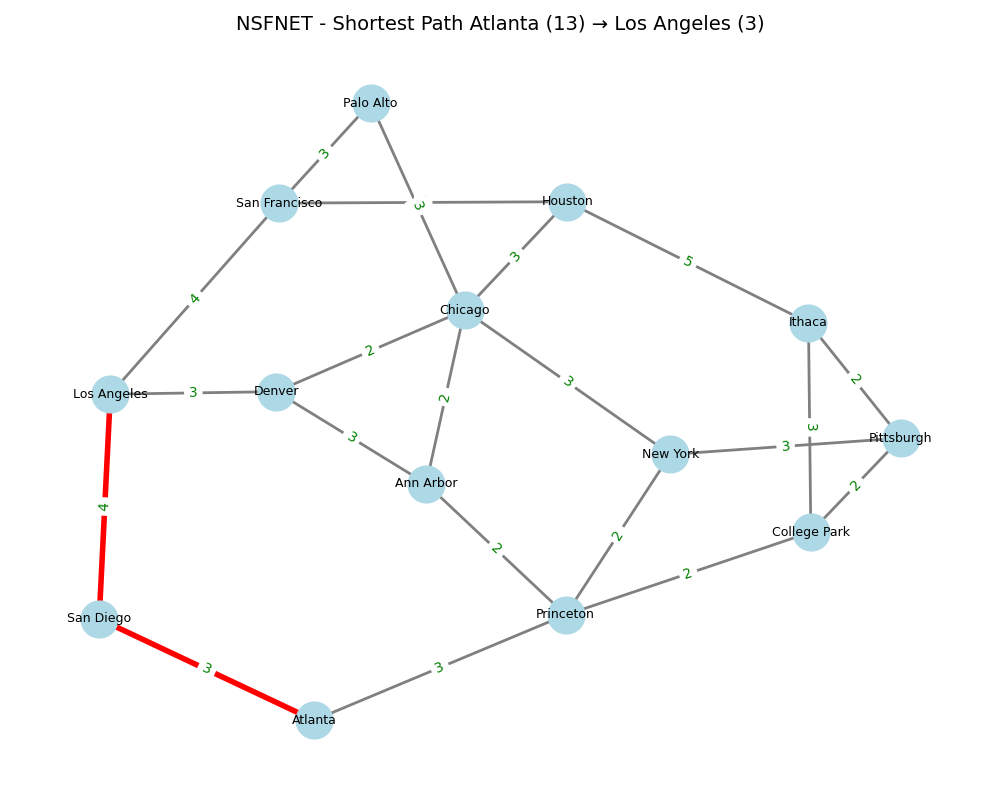
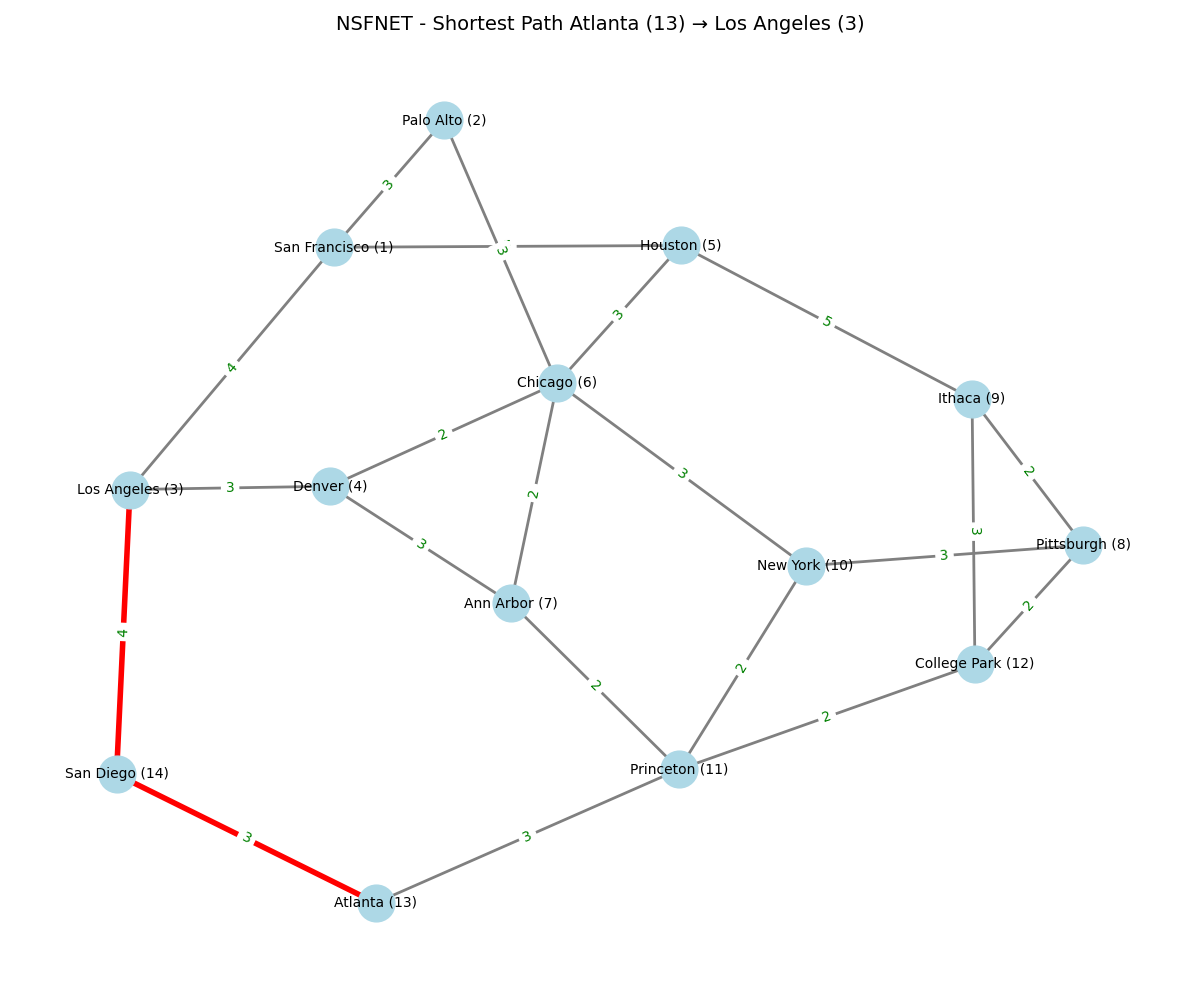
added node numbers, removed 0s

diff --git a/step3_shortest_path.py b/step3_shortest_path.py
@@ -2,7 +2,6 @@ import pandas as pd
 import networkx as nx
 import matplotlib.pyplot as plt
 
-# --- 1. Define NSFNET Topology (Nodes & Edges w/ Weights) ---
 G = nx.Graph()
 edges = [
     (1, 2, 3),
@@ -30,57 +29,59 @@ edges = [
 for u, v, w in edges:
     G.add_edge(u, v, Weight=w)
 
-# --- 2. Load SCF CSV (Source & Dest Nodes) ---
+# Use labels: City Name (Node Number)
+node_labels = {
+    1: "San Francisco (1)",
+    2: "Palo Alto (2)",
+    3: "Los Angeles (3)",
+    4: "Denver (4)",
+    5: "Houston (5)",
+    6: "Chicago (6)",
+    7: "Ann Arbor (7)",
+    8: "Pittsburgh (8)",
+    9: "Ithaca (9)",
+    10: "New York (10)",
+    11: "Princeton (11)",
+    12: "College Park (12)",
+    13: "Atlanta (13)",
+    14: "San Diego (14)",
+}
+
+# SCF from CSV
 scf = pd.read_csv("scf_230500226.csv")
 source = int(scf.loc[0, "source"])
 target = int(scf.loc[0, "destination"])
-print(f"Source node: {source}, Destination node: {target}")
 
-# --- 3. Compute Shortest Path (Dijkstra) ---
+# Shortest Path
 path = nx.shortest_path(G, source=source, target=target, weight="Weight")
 cost = nx.shortest_path_length(G, source=source, target=target, weight="Weight")
 print("Shortest path sequence:", path)
 print("Total path cost (sum of weights):", cost)
 
-# --- 4. Visualize and Highlight Path ---
-city_labels = {
-    1: "San Francisco",
-    2: "Palo Alto",
-    3: "Los Angeles",
-    4: "Denver",
-    5: "Houston",
-    6: "Chicago",
-    7: "Ann Arbor",
-    8: "Pittsburgh",
-    9: "Ithaca",
-    10: "New York",
-    11: "Princeton",
-    12: "College Park",
-    13: "Atlanta",
-    14: "San Diego",
-}
-pos = nx.spring_layout(
-    G, seed=42
-)  # You can manually place nodes later for a custom map
+# Visualization
+pos = nx.spring_layout(G, seed=42)
+plt.figure(figsize=(12, 10))
 
-plt.figure(figsize=(10, 8))
-nx.draw_networkx_nodes(G, pos, node_size=700, node_color="lightblue")
-nx.draw_networkx_labels(G, pos, labels=city_labels, font_size=9)
+# Draw nodes with labels "City Name (Node Number)"
+nx.draw_networkx_nodes(G, pos, node_color="lightblue", node_size=700)
+nx.draw_networkx_labels(G, pos, labels=node_labels, font_size=10)
 
-# Draw all edges in grey
+# Draw all edges in gray
 nx.draw_networkx_edges(G, pos, edgelist=G.edges(), width=2, edge_color="gray")
-# Highlight edges in path in red
+
+# Highlight shortest path edges in red
 path_edges = list(zip(path, path[1:]))
 nx.draw_networkx_edges(G, pos, edgelist=path_edges, width=4, edge_color="red")
+
 nx.draw_networkx_edge_labels(
     G,
     pos,
     edge_labels={(u, v): d["Weight"] for u, v, d in G.edges(data=True)},
     font_color="green",
 )
+
 plt.title(
-    f"NSFNET - Shortest Path {city_labels[source]} ({source}) → {city_labels[target]} ({target})",
-    fontsize=14,
+    f"NSFNET - Shortest Path {node_labels[source]} → {node_labels[target]}", fontsize=14
 )
 plt.tight_layout()
 plt.axis("off")
